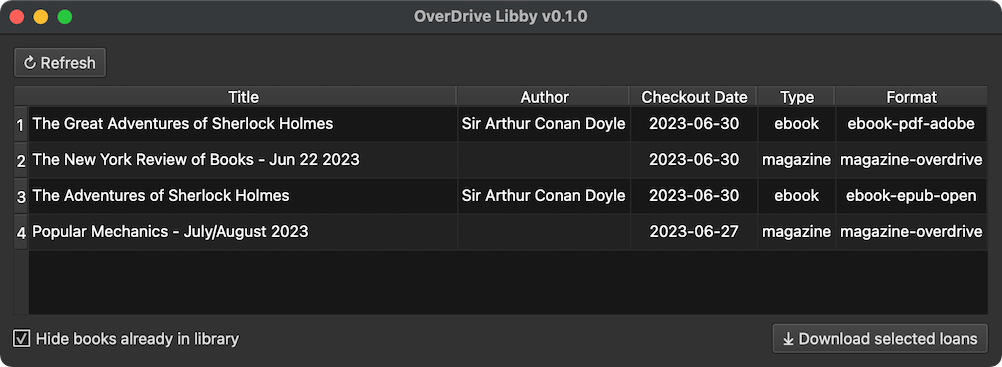
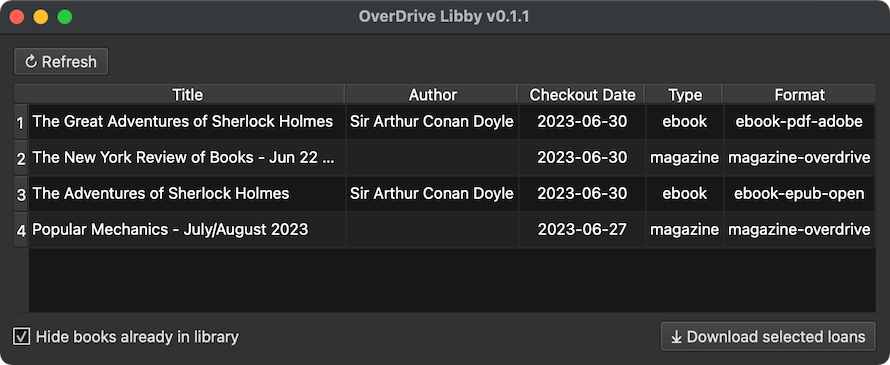
Tweak UI layouts and display

diff --git a/calibre-plugin/action.py b/calibre-plugin/action.py
@@ -137,7 +137,6 @@ class OverdriveLibbyDialog(QDialog):
                 identity_token=libby_token, max_retries=1, timeout=30, logger=logger
             )
 
-        label_column_widths = []
         self.layout = QGridLayout()
         self.setLayout(self.layout)
         self.setWindowTitle(
@@ -165,6 +164,7 @@ class OverdriveLibbyDialog(QDialog):
         self.loans_view = QTableView(self)
         self.loans_view.setSortingEnabled(True)
         self.loans_view.setAlternatingRowColors(True)
+        self.loans_view.setMinimumWidth(720)
         self.loans_view.setModel(self.search_proxy_model)
         self.loans_view.horizontalHeader().setSectionResizeMode(
             0, QHeaderView.ResizeMode.Stretch
@@ -184,16 +184,12 @@ class OverdriveLibbyDialog(QDialog):
         self.loans_view.setSelectionBehavior(QAbstractItemView.SelectRows)
         self.loans_view.sortByColumn(-1, Qt.AscendingOrder)
         self.layout.addWidget(self.loans_view, 1, 0, 3, loan_view_span)
-        label_column_widths.append(self.layout.itemAtPosition(1, 0).sizeHint().width())
 
         self.download_btn = QPushButton("\u2913 " + _("Download selected loans"), self)
         self.download_btn.setAutoDefault(False)
         self.download_btn.setStyleSheet("padding: 4px 8px")
         self.download_btn.clicked.connect(self.download_selected_loans)
         self.layout.addWidget(self.download_btn, 5, loan_view_span - 1)
-        label_column_widths.append(
-            self.layout.itemAtPosition(5, loan_view_span - 1).sizeHint().width()
-        )
 
         self.hide_book_already_in_lib_checkbox = QCheckBox(
             PreferenceTexts.HIDE_BOOKS_ALREADY_IN_LIB, self
@@ -205,9 +201,6 @@ class OverdriveLibbyDialog(QDialog):
             PREFS[PreferenceKeys.HIDE_BOOKS_ALREADY_IN_LIB]
         )
         self.layout.addWidget(self.hide_book_already_in_lib_checkbox, 5, 0, 1, 3)
-
-        label_column_width = max(label_column_widths)
-        self.layout.setColumnMinimumWidth(1, label_column_width * 2)
 
         self.resize(self.sizeHint())
         self.fetch_loans()

diff --git a/calibre-plugin/config.py b/calibre-plugin/config.py
@@ -64,6 +64,10 @@ class ConfigWidget(QWidget):
             if PREFS[PreferenceKeys.LIBBY_TOKEN]
             else _("Libby is not configured yet.")
         )
+        self.libby_setup_status_lbl.setStyleSheet(
+            "font-weight: bold; "
+            f'color: {"#00D228" if PREFS[PreferenceKeys.LIBBY_TOKEN] else "#FF0F00"};'
+        )
         self.layout.addWidget(self.libby_setup_status_lbl, 0, 0)
         label_column_widths.append(self.layout.itemAtPosition(0, 0).sizeHint().width())
 
@@ -75,6 +79,7 @@ class ConfigWidget(QWidget):
         self.libby_setup_code_txt.setPlaceholderText(
             PreferenceTexts.LIBBY_SETUP_CODE_DESC
         )
+        self.libby_setup_code_txt.setInputMask("99999999")
         self.libby_setup_code_txt.setText(PREFS[PreferenceKeys.LIBBY_SETUP_CODE])
         self.layout.addWidget(self.libby_setup_code_txt, 1, 1, 1, 1)
         self.libby_setup_code_lbl.setBuddy(self.libby_setup_code_txt)
@@ -113,7 +118,7 @@ class ConfigWidget(QWidget):
         label_column_widths.append(self.layout.itemAtPosition(6, 0).sizeHint().width())
 
         label_column_width = max(label_column_widths)
-        self.layout.setColumnMinimumWidth(1, label_column_width * 2)
+        self.layout.setColumnMinimumWidth(1, label_column_width)
 
     def save_settings(self):
         PREFS[PreferenceKeys.HIDE_MAGAZINES] = self.hide_magazines_checkbox.isChecked()
